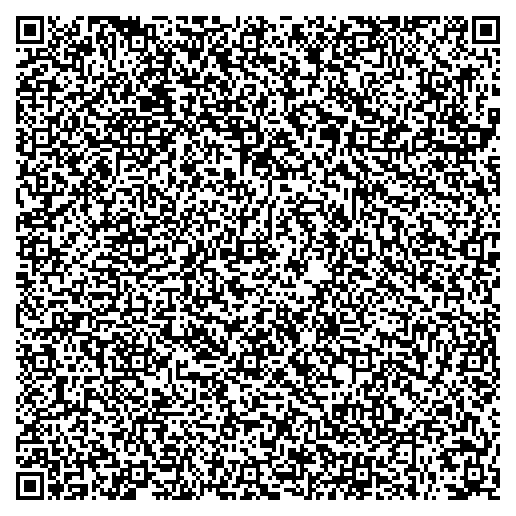
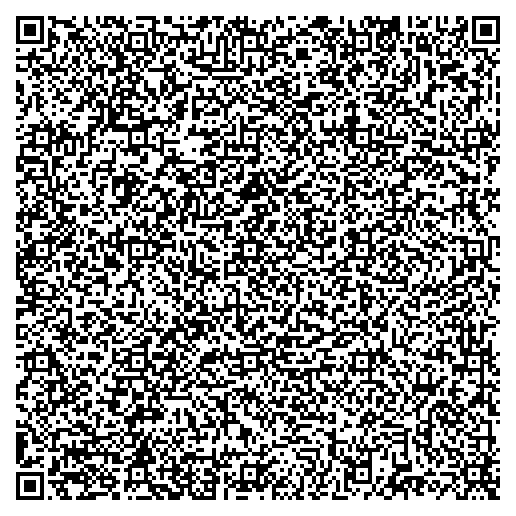
style corrected + progressBar

diff --git a/qrcode_generator/src/canvas.js b/qrcode_generator/src/canvas.js
@@ -1,29 +1,46 @@
-//import {QRCOdeGenerator} from 'qrgen.js'
-
-// import qrcode from 'qrcode';
-
-//QRCOdeGenerator('500', 'teste.png');
-
 var canvas = document.querySelector('canvas');
+var ctx = canvas.getContext("2d");
 
-canvas.width = 564;//window.innerWidth;
-canvas.height = 564;//window.innerHeight;
+const pathFiles = "./code_images/";
+const imageExtension = ".png";
 
-var c = canvas.getContext("2d");
+const heightQRCode = 516;
+const widthQRCode = 516;
 
+const heightProgressBar = 20;
+const widthProgressBar = widthQRCode;
+const verticalMargingBar = 20;
+const horizontalMargingBar = 20;
+
+canvas.width = widthProgressBar;
+canvas.height = heightQRCode + verticalMargingBar*2 + heightProgressBar;
+
+ctx.fillStyle = '#00ff01';
+ctx.strokeStyle = '#0';
+ctx.globalAlpha = 1;
+ctx.lineWidth = 5;
 
 const numberImages = 6;
 let currentImage = 0;
+ctx.strokeRect(horizontalMargingBar, heightQRCode + verticalMargingBar, 
+    (widthProgressBar-horizontalMargingBar-horizontalMargingBar), heightProgressBar);
 
 setInterval(() => {
-    const img = new Image();
-    img.src = `./code_images/qrcode${currentImage}.png`;
-    img.onload = () => {
-        c.drawImage(img, 0, 0);
+
+    if (currentImage ==  0){
+        ctx.clearRect(horizontalMargingBar, heightQRCode + verticalMargingBar, 
+            (widthProgressBar-horizontalMargingBar-horizontalMargingBar), heightProgressBar);
     }
+
+    const img = new Image();
+    img.src = `${pathFiles}qrcode${currentImage}${imageExtension}`;
+    img.onload = () => {
+        ctx.drawImage(img, 0, 0);
+    }
+    ctx.fillRect(horizontalMargingBar, heightQRCode + verticalMargingBar, 
+        (currentImage+1)*(widthProgressBar-horizontalMargingBar-horizontalMargingBar)/numberImages, heightProgressBar);
+
     currentImage = (currentImage+1) % numberImages;
 }, 500);
 
-
-console.log(canvas);
 

diff --git a/qrcode_generator/src/main.css b/qrcode_generator/src/main.css
@@ -1,21 +1,34 @@
 body {
     font-family: Arial, sans-serif;
-    background-color: #ffffff;
+    background-color: 'ffd700';
     text-align: center;
     display: flex;
     justify-content: center;
     align-items: center;
 }
 
-h1 {
-    color: darkslategray;
+.title {
+
     font-size: 32px;
     text-align: center;
-    line-height: 1em;
+    margin-bottom: 20px;
 }
 
-canvas {
-    border: 1px solid black;
+.container {
+    display: flex;
+    flex-direction: column;
+    align-items: center;
+    justify-content: center;
+    height: 100vh;
+  }
+
+.qrcode {
+    border: 3px solid black;
+    display: content;
+    position: relative;
+    align-items: center;
+    background-color:#dcdcdc;
+    border-radius: 2px;
 }
 
 img {

diff --git a/qrcode_generator/src/main.html b/qrcode_generator/src/main.html
@@ -23,12 +23,12 @@
   <!-- <script src="qrgen.js"></script> -->
 
   <body>
-      <h1 class="title">Aqui está o seu QRCode:</h1>
-
-
-
-      <canvas id="canvas_ok"></canvas>
-      <script src="canvas.js"></script>
+    
+    <div class="container">
+        <h1 class="title">Aqui está o seu QRCode:</h1>
+        <canvas class = "qrcode" id="qrcode"></canvas>
+        <script src="canvas.js"></script>
+      </div>
 
 
 

diff --git a/qrcode_generator/main.js b/qrcode_generator/main.js
@@ -3,9 +3,10 @@ const generateSequence = require('./src/qrgen.js')
 const generateQRCode = require('./src/qrgen.js')
 
 const createWindow = () => {
+    const multiplier = 1.2;
     const win = new BrowserWindow({
-        width: 800,
-        height: 600
+        width: 800*multiplier,
+        height: 600*multiplier
     })
     win.loadFile('src/main.html')
 }
